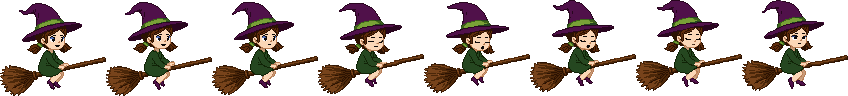
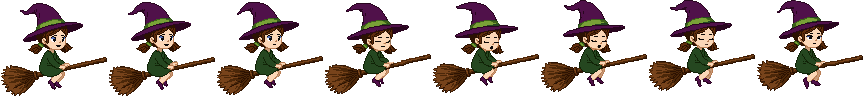
Add witch animations: swoop on tap, cheer, wave and bonk

diff --git a/index.html b/index.html
@@ -85,7 +85,7 @@
 <script>
 'use strict';
 /* ======== tuning knobs ======== */
-const ASSET_V = 6;           // bump after changing any picture or sound in assets/
+const ASSET_V = 7;           // bump after changing any picture or sound in assets/
 const VIEW_MIN = 180;        // at least this many game units across the short side of the screen (smaller = bigger witch)
 const RES = 2;               // picture pixels per game unit (the PixelLab pictures are drawn at this size)
 const CEIL = 8;              // soft ceiling, units below the top edge
@@ -160,16 +160,24 @@ const DECOYS = {
 // flying picture, in picture pixels: the middle of its feet (or, for the hanging lantern, the middle of its top);
 // the frog's `mouth` is in game units from its feet. The unicorn flies on its own; stars and the rainbow are trails.
 const FRIENDS = [
-  {name:'cat',     img:'cat', frames:8, x:22, y:70, behind:true, emoji:'🐈⬛'},
-  {name:'frog',    img:'frog-crown', frames:7, still:true, x:88, y:62, mouth:[2.5, -5.5], emoji:'🐸'},
-  {name:'lantern', img:'lantern', x:103, y:60, hang:true, emoji:'🎃'},
-  {name:'owl',     img:'owl', x:66, y:27, emoji:'🦉'},
+  {name:'cat',     img:'cat', frames:8, x:23, y:70, behind:true, emoji:'🐈⬛'},
+  {name:'frog',    img:'frog-crown', frames:7, still:true, x:89, y:62, mouth:[2.5, -5.5], emoji:'🐸'},
+  {name:'lantern', img:'lantern', x:104, y:60, hang:true, emoji:'🎃'},
+  {name:'owl',     img:'owl', x:67, y:27, emoji:'🦉'},
   {name:'stars',   trail:'stars', emoji:'✨'},
   {name:'unicorn', img:'unicorn', frames:8, trail:'rainbow', emoji:'🦄'},
 ];
-// the witch's flying picture (assets/witch-fly.png, 8 frames): where her body is, and how high the broom
-// sits in each frame (so her passengers bob with it), in picture pixels
-const RIDER = {frames: 8, body: [52, 62], broom: [61, 61, 60, 58, 58, 58, 58, 59], trail: [6, 80]};
+// The witch's pictures (assets/witch-<anim>.png, all cut the same size): where her body and the end of her broom
+// are, in picture pixels, and per animation its frames, speed, and how high the broom sits in each frame (so her
+// passengers ride along with it). `fly` loops; the others play once when something happens, then she flies on.
+const RIDER = {body: [53, 62], trail: [7, 80], anims: {
+  fly:   {frames: 8, fps: WITCH_FPS, loop: true, broom: [61, 61, 60, 58, 58, 58, 58, 59]},
+  swoop: {frames: 6, fps: 14, broom: [61, 58, 56, 58, 61, 64]},   // leaning into a tap
+  cheer: {frames: 6, fps: 10, broom: [62, 59, 58, 57, 58, 61]},   // a fist in the air for an ingredient
+  wave:  {frames: 6, fps: 8,  broom: [61, 61, 63, 64, 64, 63]},   // laughing and waving at a new friend
+  bonk:  {frames: 6, fps: 7,  broom: [62, 64, 66, 65, 64, 62]},   // holding her hat after a bump
+}};
+const ACT_RANK = {fly: 0, swoop: 1, cheer: 2, wave: 2, bonk: 3};   // a bump outranks a cheer, which outranks a swoop
 
 // sky: top and bottom colour; hills: far and near; bot/top: obstacle body and cap colours (the simple look,
 // used until the pictures load). art: the level's PixelLab pictures: `far` and `near` background strips,
@@ -426,7 +434,7 @@ function loadArt(names){
     im.src = `assets/${n}.png?v=${ASSET_V}`;
   }
 }
-loadArt(['witch-fly', 'cottage', 'cauldron', 'comet', 'bird', 'bat', ...Object.values(DECOYS).map(d => d.img), ...FRIENDS.filter(f => f.img).map(f => f.img),
+loadArt([...Object.keys(RIDER.anims).map(n => 'witch-' + n), 'cottage', 'cauldron', 'comet', 'bird', 'bat', ...Object.values(DECOYS).map(d => d.img), ...FRIENDS.filter(f => f.img).map(f => f.img),
   ...Object.values(ING).map(i => i.img),
   ...LEVELS.flatMap(l => Object.entries(l.art || {}).filter(([k]) => ['far', 'near', 'cap', 'body', 'foot', 'top'].includes(k)).map(([, v]) => v))]
   .filter((n, i, a) => a.indexOf(n) === i));
@@ -444,7 +452,14 @@ function frameOf(im, count, i, x, y){
 const params = new URLSearchParams(location.search);
 let L = 0, lv = LEVELS[0], state = 'menu';
 let cam = 0, spd = 0, fade = 0, time = 0;
-const witch = {y: 90, vy: 0, ang: 0, oops: 0, safe: 0, t: 0, trail: 0};
+const witch = {y: 90, vy: 0, ang: 0, oops: 0, safe: 0, t: 0, trail: 0, anim: {name: 'fly', t: 0}};
+// play one of the witch's animations, unless a more important one is playing
+function act(name){
+  const cur = witch.anim, a = RIDER.anims[cur.name];
+  if(!ART['witch-' + name]) return;
+  if(cur.name !== 'fly' && cur.t * a.fps < a.frames && ACT_RANK[cur.name] > ACT_RANK[name]) return;
+  witch.anim = {name, t: 0};
+}
 let pillars = [], items = [], parts = [], flyers = [], flocks = [], flockT = 0;
 let pillarN = 0, plan = new Set(), allGot = false, frameDt = 0;
 const uni = {ox: -46, oy: -8, vx: 0, vy: 0, tx: -46, ty: -8, next: 0, face: 1};   // the unicorn, relative to the witch
@@ -478,7 +493,7 @@ function startLevel(i){
   const n = total() - 1;
   plan = new Set(Array.from({length: n}, (_, j) => 1 + Math.floor((j + 0.5) * (lv.length - 3) / n)));
   Object.assign(witch, {y: CEIL + band() / 2, vy: 0, ang: 0, oops: 0, safe: 0, t: 0,
-    zoom: 0, bubble: 0, dash: 0, dashT: DASH_EVERY, shield: 0, frogT: 1, tongue: null, owlT: 1.5, hint: null,
+    anim: {name: 'fly', t: 0}, zoom: 0, bubble: 0, dash: 0, dashT: DASH_EVERY, shield: 0, frogT: 1, tongue: null, owlT: 1.5, hint: null,
     windT: WIND_EVERY, wind: 0, windDir: 1});
   flocks = []; flockT = FLOCK_EVERY * 0.5;
   nextX = Math.max(vw + 30, vw * WITCH_X + 170);
@@ -532,7 +547,7 @@ function hits(p, x, y){
 }
 
 function flap(){
-  witch.vy = -FLAP; sfx.flap();
+  witch.vy = -FLAP; sfx.flap(); act('swoop');
   const x = witchX() - 18, y = witch.y + 6;
   for(let i = 0; i < 4; i++) parts.push({x, y, vx: rand(-30, -10), vy: rand(10, 30), life: 0.4, max: 0.4, c: 'rgba(255,255,255,.8)', s: rand(1, 2)});
 }
@@ -541,7 +556,7 @@ function oops(p){
   witch.oops = OOPS_TIME; witch.safe = SAFE_TIME;
   spd = -30;
   witch.vy = gapCentre(p) > witch.y ? 40 : -70;
-  sfx.bump();
+  sfx.bump(); act('bonk');
   if(Math.random() < 0.6) say(pick(['oops', 'whoops', 'bump']));
   for(let i = 0; i < 8; i++) parts.push({x: witchX(), y: witch.y - 8, vx: rand(-40, 40), vy: rand(-50, 0), g: 120, life: 0.7, max: 0.7, c: '#ffe066', s: rand(1, 2)});
 }
@@ -563,6 +578,7 @@ function take(it){
   if(it.special){
     const y = CEIL + it.fy * band();
     for(let i = 0; i < 16; i++) parts.push({x: it.x, y, vx: rand(-50, 50), vy: rand(-50, 50), life: 0.7, max: 0.7, c: pick(['#fff3a0', '#ffd447', '#bfe9ff', '#ffffff']), s: 2, star: true});
+    act('cheer');
     if(it.special === 'comet'){ witch.zoom = ZOOM_TIME; sfx.poof(); say('zoom'); }
     else { witch.bubble = BUBBLE_TIME; sfx.bubble(); say('bubble'); }
     return;
@@ -576,7 +592,7 @@ function take(it){
   got[k]++;
   const slot = hudSlots().find(s => s.kind === k && s.i === got[k] - 1);
   flyers.push({kind: k, x0: (it.x - cam) * scale, y0: (CEIL + it.fy * band()) * scale, x1: slot.x, y1: slot.y, s1: slot.s, t: 0});
-  sfx.pick();
+  sfx.pick(); act('cheer');
   say(`c-${k}-${got[k]}`);
   for(let i = 0; i < 8; i++) parts.push({x: it.x, y: CEIL + it.fy * band(), vx: rand(-40, 40), vy: rand(-40, 40), life: 0.5, max: 0.5, c: '#fff6a8', s: 1.5});
   if(Object.keys(lv.recipe).every(k2 => got[k2] >= lv.recipe[k2])) allGot = true;   // she flies on to the end of the level, then home
@@ -840,7 +856,7 @@ function updateBrew(dt){
     }
     if(brew.stir >= STIR_NEEDED){
       brew.phase = 'magic'; brew.magicT = 0;
-      sfx.poof(); say('magic-' + (L + 1));
+      sfx.poof(); say('magic-' + (L + 1)); act('cheer');
       for(let j = 0; j < 40; j++){ const a = rand(0, Math.PI * 2), v = rand(30, 110);
         parts.push({x: c.x, y: mouth - 6, vx: Math.cos(a) * v, vy: Math.sin(a) * v - 30, g: 40, life: 1.2, max: 1.2, c: `hsl(${rand(0, 360)},90%,70%)`, s: rand(1, 2.5)}); }
     }
@@ -857,7 +873,7 @@ function updateBrew(dt){
         const w = brewWitch(), [tx, ty] = trailAt(w.x, w.y), u = rand(0, 1);
         parts.push({x: lerp(c.x, tx, u), y: lerp(mouth, ty, u) - Math.sin(u * Math.PI) * 30, vx: rand(-10, 10), vy: rand(-10, 10), life: 0.8, max: 0.8, c: pick(['#fff3a0', '#ffd447']), s: 2, star: true});
       }
-      if(brew.friendT >= 1){ brew.friendIn = true; sfx.pick(); }
+      if(brew.friendT >= 1){ brew.friendIn = true; sfx.pick(); act('wave'); }
     }
     if(brew.friendIn){ const w = brewWitch(), [tx, ty] = trailAt(w.x, w.y); broomTrail(dt, tx, ty, -30); }
     if(lv.magic === 'fireworks' && (brew.fw -= dt) < 0){
@@ -1036,12 +1052,15 @@ function drawRider(x, y, ang, alpha = 1){
   ctx.globalAlpha = alpha;
   if(friendShown(5)){ flyUnicorn(frameDt, x, y); drawFriend(5, x + uni.ox, y + uni.oy); }   // the unicorn flies round her on its own
   if(!im){ drawStickWitch(x, y, ang); ctx.globalAlpha = 1; return; }
-  const fr = Math.floor(time * WITCH_FPS) % RIDER.frames, bob = (RIDER.broom[fr] - RIDER.broom[0]) / RES;
+  let an = RIDER.anims[witch.anim.name], fr = Math.floor(witch.anim.t * an.fps);
+  if(!an.loop && fr >= an.frames){ witch.anim = {name: 'fly', t: 0}; an = RIDER.anims.fly; }   // back to flying
+  if(an.loop) fr = Math.floor(time * an.fps) % an.frames;
+  const bob = (an.broom[fr] - RIDER.anims.fly.broom[0]) / RES, sheet = ART['witch-' + witch.anim.name] || im;
   const ox = -RIDER.body[0] / RES, oy = -RIDER.body[1] / RES;
   ctx.save(); ctx.translate(R(x), R(y)); ctx.rotate(Math.round(ang / 0.06) * 0.06);   // tilt in whole steps so the pixels stay tidy
   const spot = i => [ox + FRIENDS[i].x / RES, oy + FRIENDS[i].y / RES + bob];
   FRIENDS.forEach((f, i) => { if(f.behind && f.img && friendShown(i)) drawFriend(i, ...spot(i)); });
-  frameOf(im, RIDER.frames, fr, ox, oy);
+  frameOf(sheet, an.frames, fr, ox, oy);
   FRIENDS.forEach((f, i) => { if(!f.behind && f.img && f.name !== 'unicorn' && friendShown(i)) drawFriend(i, ...spot(i)); });
   ctx.restore();
   ctx.globalAlpha = 1;
@@ -1268,6 +1287,8 @@ function drawHud(){
 let last = performance.now();
 function frame(now){
   const dt = Math.min(0.05, (now - last) / 1000); last = now; time += dt; frameDt = dt;
+  witch.anim.t += dt;
+  if(state === 'menu' && Math.random() < dt * 0.4) act(pick(['wave', 'cheer', 'swoop']));   // showing off on the title screen
   if(state === 'menu'){
     cam += 18 * dt;
     const [tx, ty] = trailAt(vw * 0.5 + Math.sin(time * 0.7) * vw * 0.3, vh * 0.72 + Math.sin(time * 1.6) * 10);

diff --git a/art-src/prep.py b/art-src/prep.py
@@ -200,7 +200,28 @@ def save(im, name):
 
 
 # the witch and her friends
-save(sheet([Image.open(SRC / 'frames' / f'witch-{i}.png').convert('RGBA') for i in range(8)]), 'witch-fly')
+# The witch's animations all share one crop box, so her body, broom and friends stay put whichever plays:
+# flying (8 frames, a loop), and swoop, cheer, wave and bonk (frames 1-6 of each; frame 0 is the flying pose).
+WITCH_ANIMS = {'fly': [f'witch-{i}' for i in range(8)]}
+for n in ('swoop', 'cheer', 'wave', 'bonk'):
+    if (SRC / 'frames' / f'witch-{n}-1.png').exists():
+        WITCH_ANIMS[n] = [f'witch-{n}-{i}' for i in range(1, 7)]
+wf = {n: [Image.open(SRC / 'frames' / f'{f}.png').convert('RGBA') for f in fs] for n, fs in WITCH_ANIMS.items()}
+boxes = [f.getchannel('A').getbbox() for fs in wf.values() for f in fs]
+WBOX = (min(b[0] for b in boxes), min(b[1] for b in boxes), max(b[2] for b in boxes), max(b[3] for b in boxes))
+print('   witch crop box', WBOX)
+for n, fs in wf.items():
+    w, h = WBOX[2] - WBOX[0], WBOX[3] - WBOX[1]
+    out = Image.new('RGBA', (w * len(fs), h), (0, 0, 0, 0))
+    broom = []
+    for i, f in enumerate(fs):
+        c = f.crop(WBOX)
+        out.alpha_composite(c, (i * w, 0))
+        px = c.load(); x = 85 + 11 - WBOX[0]   # the broom handle in front of her
+        col = [y for y in range(h) if px[x, y][3] and px[x, y][0] > 80 and px[x, y][0] > px[x, y][2] + 30 and px[x, y][1] < px[x, y][0]]
+        broom.append(min(col) if col else None)
+    save(out, f'witch-{n}')
+    print(f'   witch-{n} broom tops', broom)
 save(sheet(frames('cat', 8, FRIEND_SIZE)), 'cat')
 save(sheet(frames('frog', 7, FRIEND_SIZE)), 'frog-crown')                     # frame 0 sits still; 1-6 flick the tongue
 save(sheet(frames('unicorn', 8, FRIEND_SIZE, flip=True)), 'unicorn')        # it faced left; it flies to the right

diff --git a/README.md b/README.md
@@ -20,8 +20,10 @@ match the pictures.
 
 - Pick a level (the next one opens when you finish one). A voice says what to find: "Find two
   mushrooms and two blueberries!" The recipe is shown as pictures at the top of the screen.
-- Tap anywhere (or press space) and the witch swoops up; let go and she glides gently down. If she
-  touches the ground she just bounces back up.
+- Tap anywhere (or press space) and the witch leans forward and swoops up; let go and she glides
+  gently down. If she touches the ground she just bounces back up. She cheers when she catches
+  something, grabs her hat when she bumps into something, and laughs and waves when a new friend
+  jumps onto her broom.
 - Fly into an ingredient to catch it: it flies up into the recipe and the voice counts it in a
   little sentence ("First snowflake!", "Second snowflake!"). Extra ones you don't need just sparkle.
 - Trees, clouds and rocks stand in the way with wide gaps between them, and the witch is gently
@@ -88,6 +90,7 @@ At the top of the script in `index.html`:
 | `RES` | Picture pixels per game unit (the PixelLab pictures are made for 2) |
 | `ASSET_V` | Bump after changing any picture or sound in `assets/`, so browsers fetch the new one |
 | `WITCH_FPS` | Speed of the witch's flying animation (the cat's is three quarters of it) |
+| `RIDER` | The witch's animations: frames, speed, and where the broom is in each frame so her friends ride along; `ACT_RANK` says which one wins when two are asked for at once (a bump beats a cheer, which beats a swoop) |
 | `GRAVITY`, `FLAP`, `MAX_FALL` | How fast she drops, how high a tap lifts her, and her slowest-possible glide |
 | `SPEED` | Flying speed (each level multiplies it by its `speed`) |
 | `PILLAR_EVERY`, `PILLAR_W` | Distance between obstacles, and how wide they are |
@@ -142,9 +145,14 @@ two animations with `animate_image`. They were all made at twice the size of an 
 which is no longer in the game. The untouched originals are in `art-src/`; `python art-src/prep.py`
 (run from this folder) cuts them out, crops and trims them into `assets/` (then bump `ASSET_V`).
 
-- `assets/witch-fly.png`: the witch in a green dress and purple hat on a long broom, 8 frames of
-  her flying (she bobs and blinks), side by side. Made from `art-src/witch-a.png` (one of two tries;
-  `witch-b.png` isn't used) with `animate_image`; the frames are in `art-src/frames/`.
+- The witch in a green dress and purple hat on a long broom, made from `art-src/witch-a.png` (one of
+  two tries; `witch-b.png` isn't used), animated with `animate_image` (frames in `art-src/frames/`) and
+  cut by the script to one shared size so she and her friends never jump between animations:
+  `assets/witch-fly.png` (8 frames looping: she bobs and blinks), `witch-swoop.png` (she leans into
+  each tap and rises), `witch-cheer.png` (a fist in the air when she catches something),
+  `witch-wave.png` (laughing and waving when a new friend lands on her broom; it was asked for as a
+  dizzy look, but came out happy) and `witch-bonk.png` (holding her hat with both hands, "Oh!", after
+  a bump). Each of the last four is 6 frames played once.
 - Her friends: `assets/cat.png` (8 frames of the cat swishing its tail and blinking),
   `frog-crown.png` (7 frames: sitting still, then opening its mouth and flicking its tongue; the long
   tongue that reaches the ingredient is drawn in code), `unicorn.png` (8 frames of it galloping
